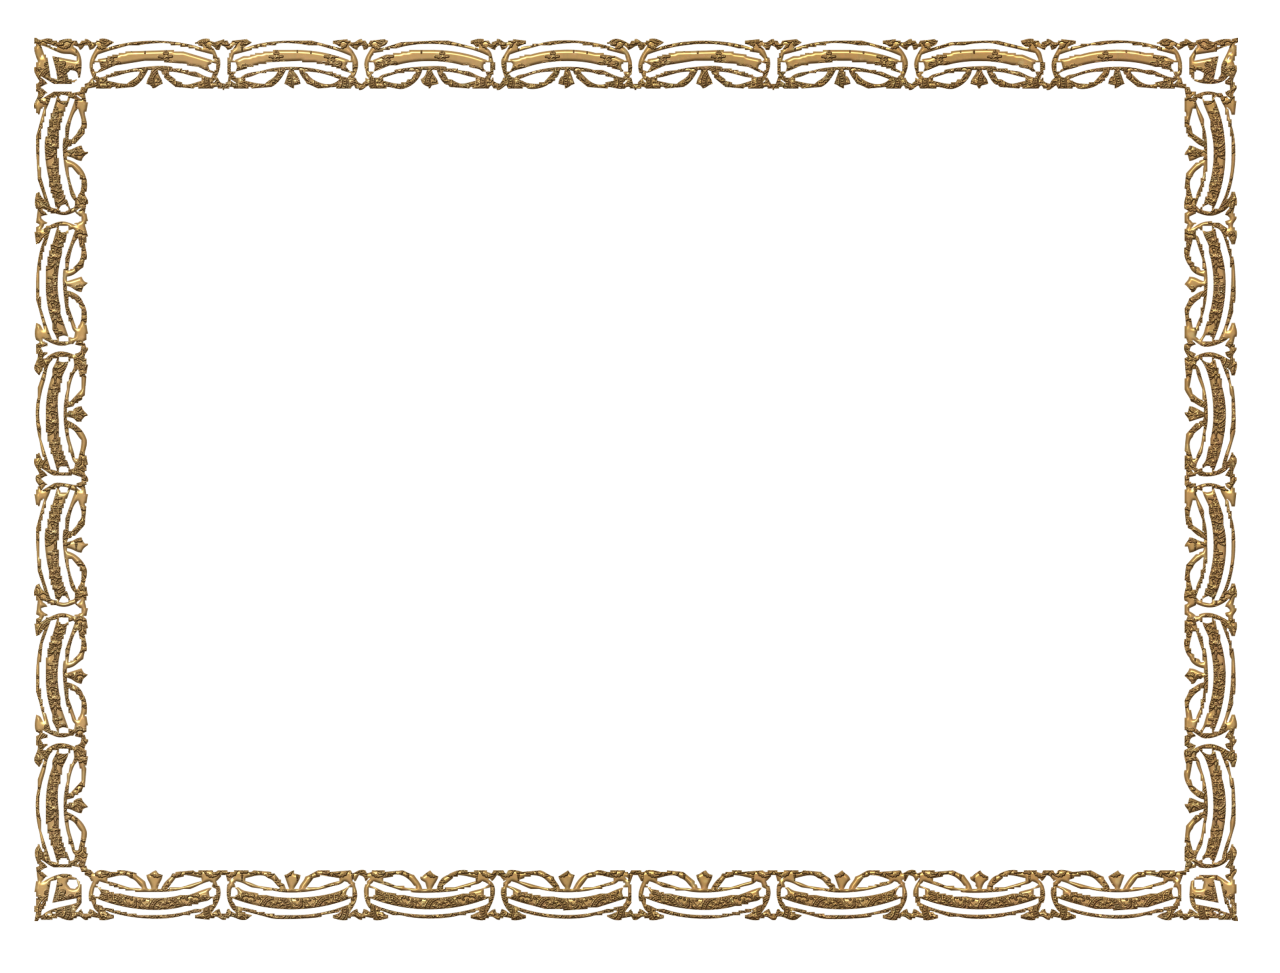
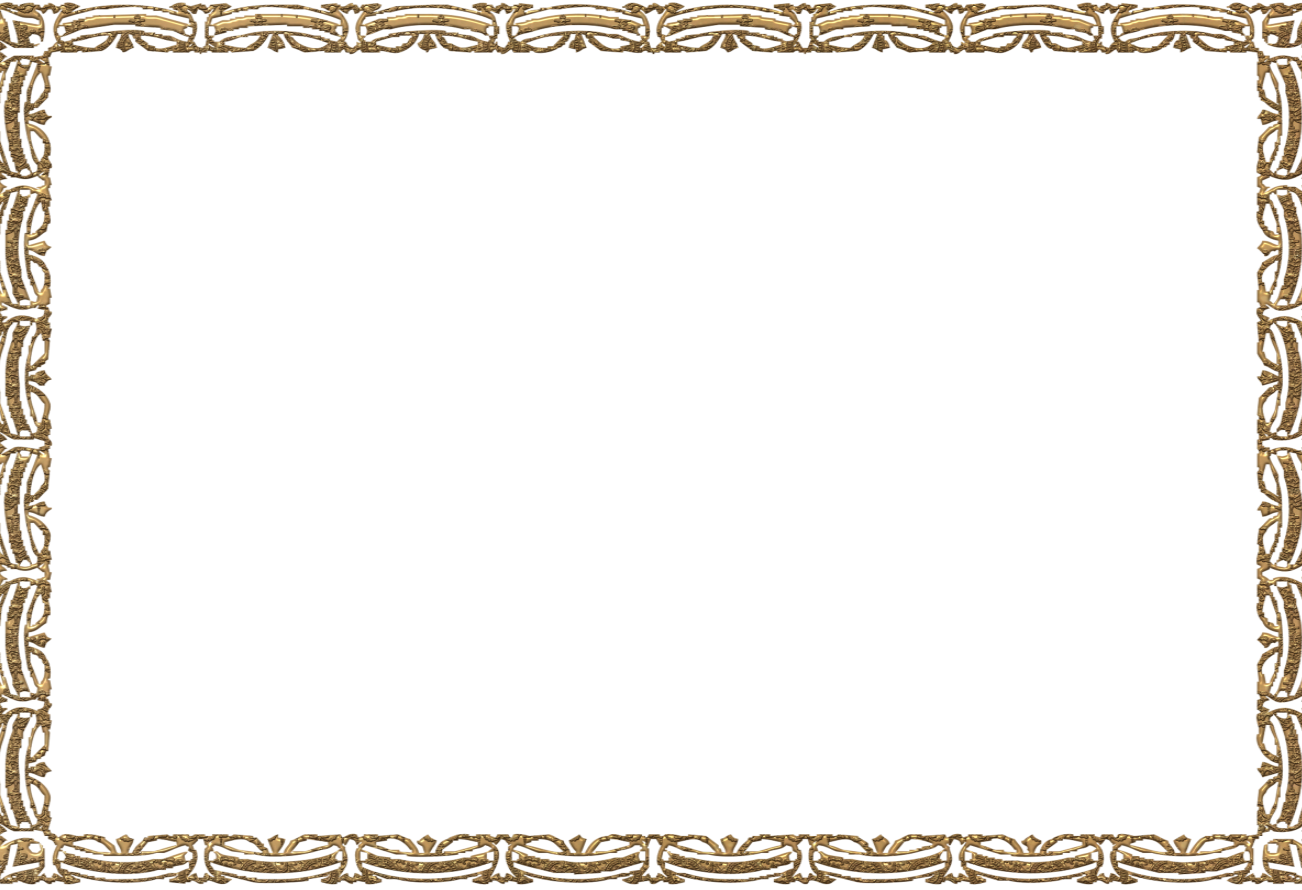
Enhance certificate UI with editable fields and frame switcher
Updated certificate generation to support editable text fields with auto-save and added controls for switching certificate frames. Improved certificate container styling and introduced a semi-transparent logo overlay. These changes provide users with more customization and a smoother certificate creation experience.

Changed region(s): [[0.0, 0.0, 1.0, 1.0]]

diff --git a/indexnewone.html b/indexnewone.html
@@ -936,6 +936,94 @@
             content: ' (Error)';
             font-size: 0.8em;
         }
+
+        /* Find this rule and REPLACE it */
+        .certificate-container {
+            width: 800px;
+            height: 550px;
+            border: 5px double #2c3e50;
+            padding: 25px;
+            background-color: white;
+            text-align: center;
+            page-break-inside: avoid;
+            box-shadow: 0 0 10px rgba(0, 0, 0, 0.2);
+            /* --- MODIFIED LINES --- */
+            background-repeat: no-repeat;
+            background-size: 102% 106%;
+            background-position: center;
+            background-origin: border-box;
+            background-clip: padding-box;
+            position: relative;
+            transition: background-image 0.3s ease-in-out;
+            /* Added for smooth frame switching */
+        }
+
+        /* Find this rule and make sure it exists */
+        .certificate-container::before {
+            content: '';
+            position: absolute;
+            top: 0;
+            left: 0;
+            right: 0;
+            bottom: 0;
+            background-image: url(logo2.png);
+            background-size: 63%;
+            background-repeat: no-repeat;
+            background-position: center;
+            opacity: 0.1;
+            pointer-events: none;
+        }
+
+        /* Find this rule and REPLACE it */
+        .certificate-container [contenteditable="true"] {
+            cursor: text;
+            padding: 5px;
+            outline: 1px dashed rgba(52, 152, 219, 0.5);
+            /* Made outline subtle */
+            transition: all 0.2s ease-in-out;
+            min-height: 1.2em;
+            /* Ensure empty elements are clickable */
+        }
+
+        /* Find this rule and REPLACE it */
+        .certificate-container [contenteditable="true"]:hover,
+        .certificate-container [contenteditable="true"]:focus {
+            background-color: rgba(52, 152, 219, 0.1);
+            outline: 1px solid #3498db;
+        }
+
+        /* --- ADD these NEW rules for the buttons --- */
+        .certificate-controls {
+            display: flex;
+            justify-content: center;
+            align-items: center;
+            gap: 10px;
+            margin-bottom: 5px;
+            color: #777;
+        }
+
+        .cert-frame-btn {
+            background: none;
+            border: 1px solid #ccc;
+            border-radius: 50%;
+            cursor: pointer;
+            width: 30px;
+            height: 30px;
+            display: flex;
+            align-items: center;
+            justify-content: center;
+            font-size: 18px;
+            transition: background-color 0.2s, color 0.2s;
+        }
+
+        .cert-frame-btn:hover {
+            background-color: #f0f0f0;
+            color: #333;
+        }
+
+        .certificate-container p {
+            padding: 0px 22px !important;
+        }
     </style>
     <script src="https://cdn.jsdelivr.net/npm/chart.js"></script>
     <script src="https://cdnjs.cloudflare.com/ajax/libs/html2canvas/1.4.1/html2canvas.min.js"></script>
@@ -11096,61 +11184,122 @@
             document.getElementById('generate-certificate-btn').addEventListener('click', generateCertificate);
             document.getElementById('bulk-export-zip-btn').addEventListener('click', exportAllCardsAsZip);
         }
+        // Add this NEW function before generateCertificate
+        function setupCertificateInteraction(studentId) {
+            const certificateFrames = ['bgc.png', 'bgc2.png', 'bgc3.png', 'bgc4.png', 'bgc5.png'];
+            let currentFrameIndex = 0;
+            const certContainer = document.getElementById(`cert-container-${studentId}`);
+
+            // Load saved frame from localStorage
+            const savedFrameIndex = localStorage.getItem(`certFrame_${studentId}`);
+            if (savedFrameIndex !== null) {
+                currentFrameIndex = parseInt(savedFrameIndex, 10);
+            }
+            certContainer.style.backgroundImage = `url(${certificateFrames[currentFrameIndex]})`;
+
+            // Add event listeners for frame switching
+            document.getElementById('cert-prev-frame').addEventListener('click', () => {
+                currentFrameIndex = (currentFrameIndex - 1 + certificateFrames.length) % certificateFrames.length;
+                certContainer.style.backgroundImage = `url(${certificateFrames[currentFrameIndex]})`;
+                localStorage.setItem(`certFrame_${studentId}`, currentFrameIndex);
+            });
+
+            document.getElementById('cert-next-frame').addEventListener('click', () => {
+                currentFrameIndex = (currentFrameIndex + 1) % certificateFrames.length;
+                certContainer.style.backgroundImage = `url(${certificateFrames[currentFrameIndex]})`;
+                localStorage.setItem(`certFrame_${studentId}`, currentFrameIndex);
+            });
+
+            // Make elements editable and handle saving
+            const editableElements = certContainer.querySelectorAll('[data-editable-id]');
+            editableElements.forEach(el => {
+                const editableId = el.dataset.editableId;
+
+                // Load saved text from localStorage
+                const savedText = localStorage.getItem(`certText_${studentId}_${editableId}`);
+                if (savedText) {
+                    el.innerHTML = savedText;
+                }
+
+                // Save text on edit
+                el.addEventListener('blur', () => {
+                    localStorage.setItem(`certText_${studentId}_${editableId}`, el.innerHTML);
+                    showNotification('Certificate text saved!', 'info');
+                });
+            });
+        }
+        // Find and completely REPLACE this function
         async function generateCertificate() {
             showLoading();
             const certType = document.getElementById('certificate-type').value;
             const studentId = parseInt(document.getElementById('certificate-student-filter').value);
             const outputDiv = document.getElementById('certificate-output');
             outputDiv.innerHTML = '';
+
             if (!studentId) {
                 showNotification('Please select a student.', 'error');
                 hideLoading();
                 return;
             }
+
             const student = await getFromStore(STORES.STUDENTS, studentId);
             const settings = await getFromStore(STORES.SETTINGS, 'general');
             const schoolName = settings?.schoolName || "Deeni Madrasa";
             const principalName = settings?.principalName || "Principal";
             const className = student.classId ? (await getFromStore(STORES.CLASSES, student.classId))?.name : '';
             const today = new Date().toLocaleDateString('en-US', { year: 'numeric', month: 'long', day: 'numeric' });
+
             let title = "";
             let body = "";
+
             switch (certType) {
                 case 'promotion':
                     title = "Promotion Certificate";
-                    body = `<p>This certifies that student <b>${student.name}</b> son/daughter of <b>${student.fatherName}</b> has successfully completed Class <b>${className}</b> and is promoted to the next class. We wish them all the best for their future endeavors.</p>`;
+                    body = `<p data-editable-id="cert_body" contenteditable="true">This certifies that student <b>${student.name}</b> son/daughter of <b>${student.fatherName}</b> has successfully completed Class <b>${className}</b> and is promoted to the next class. We wish them all the best for their future endeavors.</p>`;
                     break;
                 case 'leaving':
                     title = "Leaving Certificate";
-                    body = `<p>This certifies that student <b>${student.name}</b> son/daughter of <b>${student.fatherName}</b>, Roll No. <b>${student.rollNumber}</b>, has been studying in our institution. This certificate is issued to them. We wish them a bright future.</p>`;
+                    body = `<p data-editable-id="cert_body" contenteditable="true">This certifies that student <b>${student.name}</b> son/daughter of <b>${student.fatherName}</b>, Roll No. <b>${student.rollNumber}</b>, has been studying in our institution. This certificate is issued to them. We wish them a bright future.</p>`;
                     break;
                 case 'character':
                     title = "Character Certificate";
-                    body = `<p>This certifies that student <b>${student.name}</b> son/daughter of <b>${student.fatherName}</b> is known to our institution as a student of good character and excellent morals. Their conduct with teachers and fellow students has always been positive.</p>`;
+                    body = `<p data-editable-id="cert_body" contenteditable="true">This certifies that student <b>${student.name}</b> son/daughter of <b>${student.fatherName}</b> is known to our institution as a student of good character and excellent morals. Their conduct with teachers and fellow students has always been positive.</p>`;
                     break;
                 case 'achievement':
                     title = "Achievement Certificate";
                     const achievement = document.getElementById('achievement-description').value || 'Outstanding Performance';
-                    body = `<p>This certificate is presented to student <b>${student.name}</b> son/daughter of <b>${student.fatherName}</b> for their <b>${achievement}</b>. The institution is proud of their remarkable achievement.</p>`;
+                    body = `<p data-editable-id="cert_body" contenteditable="true">This certificate is presented to student <b>${student.name}</b> son/daughter of <b>${student.fatherName}</b> for their <b>${achievement}</b>. The institution is proud of their remarkable achievement.</p>`;
                     break;
             }
+
+            // Notice the new data-editable-id attributes and the new controls section
             const certificateHTML = `
     <div class="certificate-wrapper" id="cert-wrapper-${student.id}">
+        <div class="certificate-controls no-print">
+            <button id="cert-prev-frame" class="cert-frame-btn" title="Previous Frame">❮</button>
+            <span style="font-style: italic;">Click any text to edit. Changes are saved automatically.</span>
+            <button id="cert-next-frame" class="cert-frame-btn" title="Next Frame">❯</button>
+        </div>
         <button title="Download PNG" class="card-export-btn no-print" onclick="exportElementAsPNG('cert-container-${student.id}', 'Certificate-${student.rollNumber}.png')">↓</button>
         <div class="certificate-container" id="cert-container-${student.id}">
-            <h2>${schoolName}</h2>
-            <h3>${title}</h3>
+            <h2 data-editable-id="school_name" contenteditable="true">${schoolName}</h2>
+            <h3 data-editable-id="cert_title" contenteditable="true">${title}</h3>
             <hr>
             <div style="text-align: left; margin-top: 40px;">
                 ${body}
             </div>
             <div class="certificate-signature">
-                <div>Date: ${today}</div>
-                <div>Principal's Signature</div>
+                <div data-editable-id="cert_date" contenteditable="true">Date: ${today}</div>
+                <div data-editable-id="cert_signature_title" contenteditable="true">Principal's Signature</div>
             </div>
         </div>
     </div>`;
+
             outputDiv.innerHTML = certificateHTML;
+
+            // Call the new function to activate the features
+            setupCertificateInteraction(studentId);
+
             hideLoading();
         }
         async function exportElementAsPNG(elementId, filename) {
